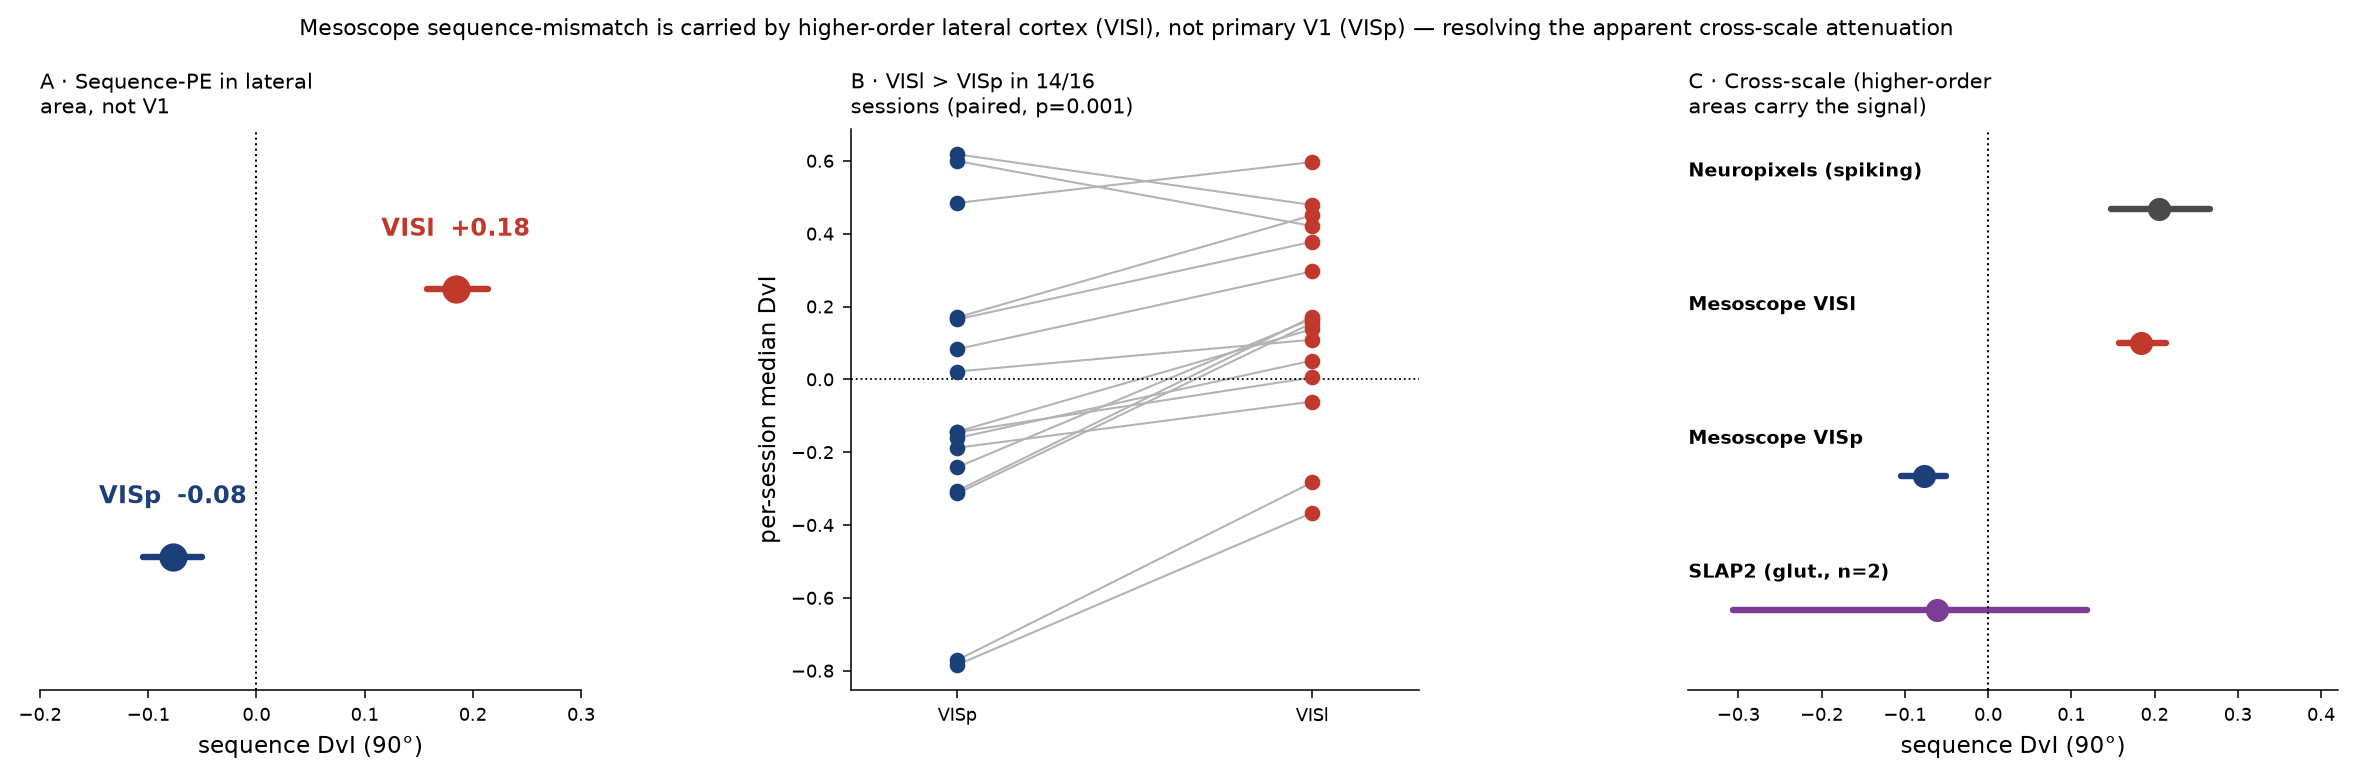
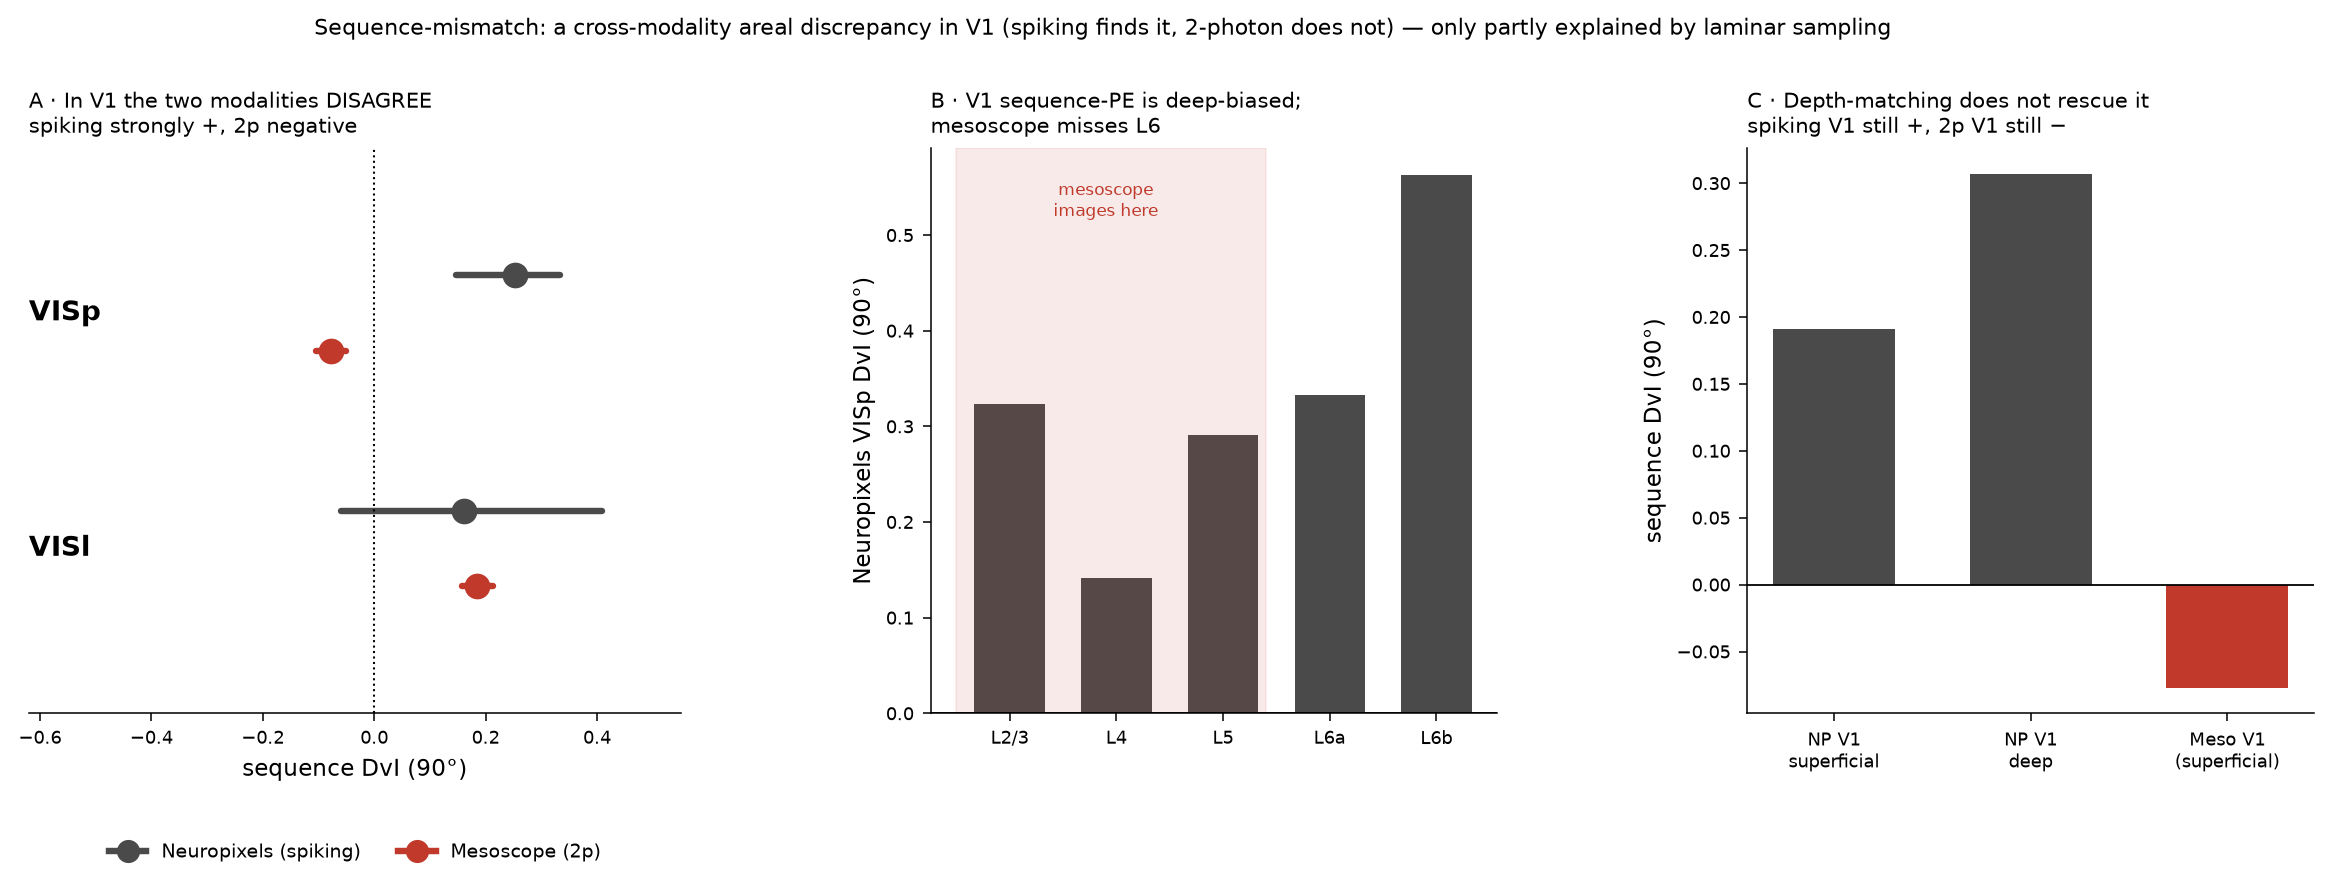
Correct Result 8: cross-modality areal DISCREPANCY, not a reconciliation
Prompted by a reviewer question, broke the Neuropixels sequence DvI down by area (which the
prior version failed to do) and found the two modalities disagree in sign in V1: Neuropixels
sequence-PE is STRONGEST in VISp (+0.25, all-area positive) while mesoscope is negative in VISp
(-0.08), positive only in VISl. The prior 'VISl matches Neuropixels, resolves attenuation'
framing was an overclaim (NP VISl +0.16 is n.s., n=99). Added laminar analysis: NP V1 signal is
deep-biased (mesoscope misses L6), but superficial-matched NP V1 is still +0.19 vs 2p -0.08, so
depth sampling does not explain the sign flip. Reframed as a caution that the calcium DvI is not
interchangeable with the spiking DvI. Updated figure (3 panels: area comparison, laminar, depth-
matched), README Result 8 + Results-at-a-glance paragraph, and notebook framing.

diff --git a/README.md b/README.md
@@ -66,17 +66,20 @@ establishes the closed-loop enhancement of the orientation-mismatch response (90
 +0.33 Hz, CI [+0.14, +0.55], 5/6 sessions), so it is no longer a single-session result.
 The full logic, controls, and caveats for each row are in the Result sections below.
 
-The cross-scale picture has since been sharpened by two further analyses. Paradigm-matched
-SLAP2 data has begun to arrive, and a first look at the dendritic-glutamate scale
+The cross-scale picture has since been complicated — honestly — by two further analyses.
+Paradigm-matched SLAP2 data has begun to arrive, and a first look at the dendritic-glutamate scale
 ([**Result 7**](#result-7--paradigm-matched-slap2-first-look-preliminary-n2paradigm)) finds no
 prediction-error signal in any of the four paradigms — but at n = 2 sessions each, this cannot
-yet separate a genuine input/output dissociation from underpowering. More importantly, the
-mesoscope cross-scale number is not a single value:
-[**Result 8**](#result-8--mesoscope-sequence-mismatch-is-an-area-dissociation-visl-not-v1) shows
-the mesoscope *sequence* signal is an **area dissociation** — robust in higher-order lateral
-cortex (VISl, +0.18, matching Neuropixels) but absent in primary V1 (VISp, −0.08). The pooled
-mesoscope +0.09 masks this split; the apparent "imaging attenuates the signal" reading is partly
-an averaging artifact over a VISp-dominated population.
+yet separate a genuine input/output dissociation from underpowering. And when the *sequence*
+paradigm is broken down by cortical area in both modalities
+([**Result 8**](#result-8--sequence-mismatch-a-cross-modality-areal-discrepancy-in-v1)), the
+Neuropixels and mesoscope signals **disagree in sign in V1**: spiking finds the sequence-PE
+*strongest* in primary V1 (+0.25), while mesoscope 2-photon finds it *absent/negative* there
+(−0.08), positive only in lateral cortex. Only part of this is explained by mesoscope's
+superficial laminar sampling. So the cross-scale generalization in panel B holds for the
+*feature-oddball* contrast (spikes and mesoscope both positive on responsive cells), but the
+finer area-resolved comparison is a **caution against treating the calcium DvI as
+interchangeable with the spiking DvI** — not a clean reconciliation.
 
 "All positive," though, is consistent with **both** a single common deviance-detection
 mechanism (**H1**) and separate circuits each tuned to their own error type (**H0**).
@@ -674,35 +677,52 @@ values in [`data/slap2_fourparadigm_summary.csv`](data/slap2_fourparadigm_summar
 
 ---
 
-## Result 8 — Mesoscope sequence-mismatch is an area dissociation (VISl, not V1)
+## Result 8 — Sequence-mismatch: a cross-modality areal discrepancy in V1
 
 Result 4 established a robust sequence prediction-error signal in Neuropixels spiking
-(DvI ≈ +0.21). Does it survive in mesoscope 2-photon? The **pooled** mesoscope answer looks
-weak (+0.04) — but that number is an artifact of averaging over cortical areas. Broken down by
-area (16 sessions, 31,081 somatic ROIs, `is_soma`-gated), the signal is carried almost entirely
-by the **higher-order lateral area (VISl)**, not primary visual cortex (VISp):
+(pooled DvI ≈ +0.21). Does it survive in mesoscope 2-photon? Answering this correctly requires
+breaking **both** modalities down by cortical area — and when we do, the two do **not** agree
+where it matters most.
 
-![Mesoscope sequence area dissociation](figures/sequence_crossscale_area.png)
+![Sequence-mismatch area comparison across modalities](figures/sequence_crossscale_area.png)
 
-| area | sequence DvI (90°) | 95% CI | sessions positive |
-|---|---|---|---|
-| **VISl** (lateral, higher-order) | **+0.18** | [+0.16, +0.21] | 13/16 |
-| **VISp** (primary V1) | **−0.08** | [−0.11, −0.05] | 7/16 |
+Comparing the same paradigm (position-3 90° deviant vs. the equiprobable Control-block-2 90°
+control, same DvI) in the two areas mesoscope samples:
 
-Within-session paired, **VISl > VISp in 14/16 sessions** (Wilcoxon p = 0.001). VISl matches the
-Neuropixels magnitude; VISp shows no sequence-PE, if anything slight suppression.
+| area | **Neuropixels** DvI (90°) | **Mesoscope** DvI (90°) |
+|---|---|---|
+| **VISp** (primary V1) | **+0.25** [+0.15, +0.33] — *strongest area* | **−0.08** [−0.11, −0.05] — negative |
+| **VISl** (lateral) | +0.16 [−0.06, +0.41] — n.s. (n=99) | +0.18 [+0.16, +0.21] |
 
-**Why this matters.** (1) It is a within-modality analogue of the predictive-processing
-prediction that deviance/error signals concentrate in higher-order cortex. (2) It **reframes the
-apparent cross-scale attenuation** (Result 2, Result 7): the sequence signal is not weak in
-2-photon per se — it is weak *where V1 is oversampled*. The pooled cross-modal comparison mixed
-a strong VISl signal with a null/negative VISp one. When the areas are separated, mesoscope-VISl
-sits right alongside Neuropixels. A per-subject magnitude spread remains on top of the consistent
-area ordering (a few sessions are negative in both areas) — a candidate for a behavioral-state
-analysis as more sessions accrue. Reproduce:
-[`notebooks/mesoscope_sequence_area.ipynb`](notebooks/mesoscope_sequence_area.ipynb) (QUICK mode
-runs 4 sessions); values in
-[`data/meso_sequence_area_summary.csv`](data/meso_sequence_area_summary.csv).
+**In V1 the two modalities disagree in sign.** Spiking finds the sequence-PE *strongest* in
+primary V1 (+0.25, present across all areas); mesoscope 2-photon finds it *absent/negative* in
+V1 (−0.08) and positive only in lateral cortex. The apparent VISl agreement (+0.16 vs +0.18) is
+not a match to lean on — the Neuropixels VISl estimate is not significant (only 99 units). So
+the honest headline is a **cross-modality areal discrepancy**, not a reconciliation. The same
+direction holds for feature-oddball (Result 1): Neuropixels V1 is the strongest area (+0.49),
+while mesoscope feature-oddball is weak pooled (Result 2, +0.11).
+
+**Is it just laminar sampling?** Mesoscope images ~46–428 µm (L2/3 through upper L5, **missing
+L6**), while Neuropixels samples all layers. The Neuropixels V1 sequence-PE *is* deep-biased
+(L5 +0.29, L6a +0.33, L6b +0.56 vs. L4 +0.14), so depth explains part of the magnitude gap.
+But it does **not** explain the sign flip: restricting Neuropixels V1 to the superficial layers
+mesoscope can actually see still gives **+0.19 (positive)**, versus mesoscope's **−0.08**
+(panel C). Depth-matching narrows the gap but the modalities still point in opposite directions
+in V1.
+
+**What this means.** The calcium DvI is **not interchangeable** with the spiking DvI —
+especially in V1, where a strong spiking deviance signal (concentrated in deep layers) does not
+appear in the superficial 2-photon signal. Candidate causes this dataset cannot yet
+adjudicate: indicator nonlinearity/thresholding suppressing small deviance signals, neuropil
+contamination, or a genuine transformation between somatic spiking output and the dendritic/
+somatic calcium proxy. This is a caution for anyone pooling deviance indices across techniques,
+and it sharpens (rather than resolves) the cross-scale question raised in Results 2 and 7.
+A per-subject magnitude spread sits on top of the area pattern (a few mesoscope sessions are
+negative in both areas) — a candidate for a behavioral-state analysis as more data accrues.
+Reproduce: [`notebooks/mesoscope_sequence_area.ipynb`](notebooks/mesoscope_sequence_area.ipynb)
+(QUICK mode runs 4 sessions); values in
+[`data/seq_area_comparison.csv`](data/seq_area_comparison.csv) and
+[`data/seq_visp_layers.csv`](data/seq_visp_layers.csv).
 
 ---
 
